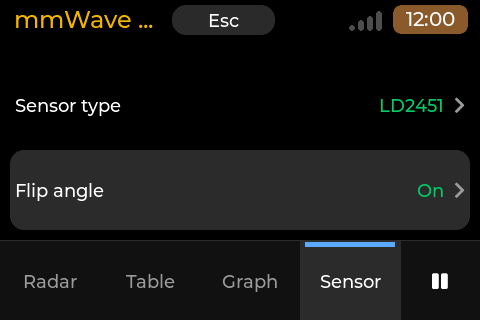
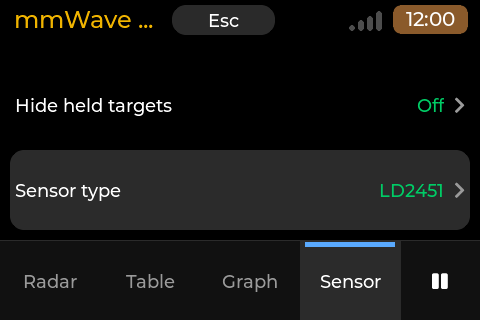
mmwave-radar: drop Flip angle (Orientation covers it), confirm LD2451 angle sign
Remove the Flip angle setting (settings field, serialisation, Sensor-page
row, the mirror path in the link, its tests); an old flip_angle key in
settings.conf is ignored and never written. A walk test on 2026-11-06
(sensor horizontal, cable on the left as seen when facing it) confirmed
the angle sign: positive = right as seen from behind the sensor;
Orientation > Mirror gives the facing view. README, scene and the two
Sensor-page screenshots updated. No diag change: the target-frame lines
are written for the LD2451 (3 in mmwave-diag-3.log).

Claude-Session: https://claude.ai/code/session_01DZirtLRRFpxSjax5Qp5ZSW

diff --git a/apps/mmwave-radar/tests/test_ld2451.cpp b/apps/mmwave-radar/tests/test_ld2451.cpp
@@ -3,7 +3,7 @@
  *
  * mmWave Radar tests: the HLK-LD2451 driver. The three real recordings (tests/data/ld2451-*.bin, README there) through
  * the decoder, the link and the tracker with their own timing; the decoder's edge cases (resync, split reads, truncated
- * and inconsistent frames, count above the slot cap); the polar maths and the Flip angle setting; the per-driver
+ * and inconsistent frames, count above the slot cap); the polar maths and the angle sign; a removed flip_angle settings key; the per-driver
  * timeouts (quiet_ms, drop_ms); the discrimination from the LD2410 both ways; the demo scenarios; listen-only.
  */
 #include "check.hpp"
@@ -900,86 +900,62 @@ void test_tracker_gap()
     }
 }
 
-/* ------------------------------------------------------------------------------------------ Flip angle */
+/* ------------------------------------------------------------------------------------------ angle sign */
 
-void test_flip_angle()
+/* The angle sign was confirmed by one walk test on 2026-11-06 (sensor horizontal, cable on the left as seen when facing it):
+ * positive = to the right as seen from behind the sensor; Orientation > Mirror gives the facing view. The polar maths is
+ * not mirrored anywhere (the Flip angle setting is gone). */
+void test_angle_sign()
 {
-    const Bytes tb = frame_bytes({{20, 8, 1, 4, 100}});
+    const Bytes tb = frame_bytes({{20, 8, 1, 4, 100}, {-15, 6, 0, 4, 100}});
     Frame f;
     CHECK(ld2451_decode_frame(tb.data(), tb.size(), f));
-    const int x0 = f.target[0].x_mm;
-    CHECK(x0 > 0);
-    Frame m = f;
-    mirror_frame_x(m);
-    CHECK_EQ(m.target[0].x_mm, -x0);
-    CHECK_EQ(m.target[0].angle_deg, -20.0);
-    CHECK_EQ(m.target[0].y_mm, f.target[0].y_mm);
-    CHECK_EQ(m.target[0].distance_mm, f.target[0].distance_mm);
-    CHECK_EQ(m.target[0].speed_cm_s, f.target[0].speed_cm_s);
-    CHECK(!m.target[1].present && m.target[1].x_mm == 0);
+    CHECK(f.target[0].x_mm > 0);
+    CHECK(f.target[1].x_mm < 0);
+    const int x0 = f.target[0].x_mm, x1 = f.target[1].x_mm;
+    CHECK_EQ(f.target[0].angle_deg, 20.0);
+    CHECK_EQ(f.target[1].angle_deg, -15.0);
 
-    for (int flip = 0; flip < 2; ++flip) {
-        FakeSys sys;
-        FakePort &p = sys.add("ttyUSB0");
-        p.stream[115200] = as_string(repeat(tb, 1));
-        p.rate_bps = 17 / 0.14;
-        Link link(sys);
-        link.set_flip_angle(flip != 0);
-        link.start(0);
-        step(sys, link, 8000);
-        CHECK(link.state() == LinkState::Found);
-        CHECK(link.driver() == &kDriverLd2451);
-        CHECK(link.tracker().slot(0).active);
-        CHECK_EQ(link.tracker().slot(0).last.x_mm, flip ? -x0 : x0);
-        CHECK_EQ(link.tracker().slot(0).last.angle_deg, flip ? -20.0 : 20.0);
-        /* switching it while running takes effect on the next frames */
-        link.set_flip_angle(flip == 0);
-        step(sys, link, 600);
-        CHECK_EQ(link.tracker().slot(0).last.x_mm, flip ? x0 : -x0);
-        link.close();
-    }
-    /* the LD2450 is left alone (it has Orientation > Mirror) */
-    {
-        FakeSys sys;
-        sys.add("ttyUSB0").stream[9600] = test_read_file(test_data_dir() + "ld2452-9600-walk-15s.bin");
-        Link a(sys);
-        a.set_flip_angle(true);
-        a.start(0);
-        step(sys, a, 6000);
-        CHECK(a.driver() == &kDriverLd2450);
-        const std::vector<std::uint8_t> raw(a.last_frame().raw, a.last_frame().raw + 30);
-        /* a flipped x would not match the bytes of the frame: decode them again */
-        Frame again;
-        CHECK(decode_frame(raw.data(), again));
-        for (int i = 0; i < 3; ++i) CHECK_EQ(a.last_frame().target[i].x_mm, again.target[i].x_mm);
-        a.close();
-    }
+    FakeSys sys;
+    FakePort &p = sys.add("ttyUSB0");
+    p.stream[115200] = as_string(repeat(tb, 1));
+    p.rate_bps = 17 / 0.14;
+    Link link(sys);
+    link.start(0);
+    step(sys, link, 8000);
+    CHECK(link.state() == LinkState::Found);
+    CHECK(link.driver() == &kDriverLd2451);
+    CHECK(link.tracker().slot(0).active);
+    CHECK_EQ(link.tracker().slot(0).last.x_mm, x0);
+    CHECK_EQ(link.tracker().slot(0).last.angle_deg, 20.0);
+    CHECK_EQ(link.tracker().slot(1).last.x_mm, x1);
+    link.close();
 }
 
 void test_flip_setting()
 {
-    Settings d;
-    CHECK(!d.flip_angle);
     /* the default file is as before: no line for it */
-    CHECK_EQ(serialize_settings(d), "units=metres\norientation=normal\nrange=auto\ntrails=on\nhide_held=off\n");
+    CHECK_EQ(serialize_settings(Settings()), "units=metres\norientation=normal\nrange=auto\ntrails=on\nhide_held=off\n");
+    /* an old file with the removed flip_angle key still loads (the key is ignored) and it is never written back */
+    for (const char *v : {"on", "off", "yes", ""}) {
+        const Settings r = parse_settings(std::string("units=raw\nflip_angle=") + v + "\nsensor=ld2451\nrange=4\n");
+        CHECK(r.units == UnitMode::MmCms);
+        CHECK_EQ(r.sensor, "ld2451");
+        CHECK_EQ(r.range_m, 4);
+        CHECK(serialize_settings(r).find("flip") == std::string::npos);
+    }
+    {
+        const Settings r = parse_settings("flip_angle=on\r\nunits=raw\r\n");
+        CHECK(r.units == UnitMode::MmCms);
+        CHECK(serialize_settings(r).find("flip") == std::string::npos);
+    }
     Settings s;
-    s.flip_angle = true;
-    CHECK(serialize_settings(s).find("flip_angle=on\n") != std::string::npos);
-    CHECK(parse_settings(serialize_settings(s)).flip_angle);
     s.sensor = "ld2451";
     s.range_m = 4;
     const Settings r = parse_settings(serialize_settings(s));
-    CHECK(r.flip_angle);
     CHECK_EQ(r.sensor, "ld2451");
     CHECK_EQ(r.range_m, 4);
     CHECK_EQ(serialize_settings(r), serialize_settings(s));
-    s.flip_angle = false;
-    CHECK(serialize_settings(s).find("flip_angle") == std::string::npos);
-    CHECK(!parse_settings("").flip_angle);
-    CHECK(!parse_settings("flip_angle=off\n").flip_angle);
-    CHECK(!parse_settings("flip_angle=yes\n").flip_angle);
-    CHECK(!parse_settings("flip_angle=\n").flip_angle);
-    CHECK(parse_settings("flip_angle=on\r\nunits=raw\r\n").flip_angle);
     /* the Sensor type value */
     CHECK_EQ(parse_settings("sensor=ld2451\n").sensor, "ld2451");
     CHECK(valid_sensor_type("ld2451"));
@@ -1109,7 +1085,7 @@ void test_ld2451()
     test_empty_only_stream();
     test_per_driver_timeouts();
     test_tracker_gap();
-    test_flip_angle();
+    test_angle_sign();
     test_flip_setting();
     test_range();
     test_demo_scenarios();

diff --git a/apps/mmwave-radar/src/ui/radar_app.cpp b/apps/mmwave-radar/src/ui/radar_app.cpp
@@ -48,9 +48,9 @@ std::int64_t mono_ms()
 }
 
 const char *const kTabNames[4] = {"Radar", "Table", "Graph", "Sensor"};
-constexpr int kSettingCount = 7;
+constexpr int kSettingCount = 6;
 const char *const kSettingNames[kSettingCount] = {"Units", "Orientation", "Range", "Trails", "Hide held targets",
-                                                   "Sensor type", "Flip angle"};
+                                                   "Sensor type"};
 
 std::uint32_t state_rgb(mmw::LinkState s)
 {
@@ -163,7 +163,6 @@ RadarApp::RadarApp(lv_obj_t *screen) : screen_(screen)
     mmw::LinkConfig link_cfg;
     link_cfg.detect.sensor = settings_.sensor;
     link_ = std::make_unique<mmw::Link>(*sys_, link_cfg);
-    link_->set_flip_angle(settings_.flip_angle);
     now_ = mono_ms();
     link_->start(now_, remembered);
     log_line("%s %dx%d%s%s, listen only, remembered %s", kVersion, w_, h_,
@@ -828,8 +827,7 @@ void RadarApp::update_sensor(bool force)
                                                mmw::orientation_label(settings_.orientation),
                                                mmw::range_label(settings_.range_m), settings_.trails ? "On" : "Off",
                                                settings_.hide_held ? "On" : "Off",
-                                               mmw::sensor_type_label(settings_.sensor.c_str()),
-                                               settings_.flip_angle ? "On" : "Off"};
+                                               mmw::sensor_type_label(settings_.sensor.c_str())};
     for (int i = 0; i < kSettingCount; ++i) {
         set_text_if(settings_rows_[i].value, values[i]);
         lv_obj_set_style_bg_opa(settings_rows_[i].row, i == setting_sel_ ? LV_OPA_COVER : LV_OPA_TRANSP, 0);
@@ -894,10 +892,6 @@ void RadarApp::apply_setting(int index)
     case 5:
         settings_.sensor = mmw::next_sensor_type(settings_.sensor.c_str());
         link_->set_sensor_type(settings_.sensor, now_);
-        break;
-    case 6:
-        settings_.flip_angle = !settings_.flip_angle;
-        link_->set_flip_angle(settings_.flip_angle);
         break;
     default: return;
     }

diff --git a/apps/mmwave-radar/src/core/ld2451.hpp b/apps/mmwave-radar/src/core/ld2451.hpp
@@ -10,9 +10,9 @@
  * with len = 2 + 5 x count. A frame with NOTHING in view is F4 F3 F2 F1 00 00 F8 F7 F6 F5 (len 0: no count and no alarm
  * byte; about every 1.4 s); one with a target comes about every 0.14 s. A frame of len 2 (count 0) is accepted as
  * empty too. Per target, one byte each:
- *   angle      reported value - 0x80, degrees (1 degree steps). Which side is positive is NOT verified: the driver takes
- *              positive as to the right, seen from behind the sensor looking where it points (x = d sin a); the Flip
- *              angle setting mirrors it.
+ *   angle      reported value - 0x80, degrees (1 degree steps). Positive is to the right, seen from behind the sensor
+ *              looking where it points (x = d sin a); confirmed by one walk test on 2026-11-06 (Orientation > Mirror
+ *              gives the view facing the sensor).
  *   distance   metres, whole (1 m steps; 2 m is the nearest seen; readings of 6-10 m in a 4 m room are reflections, not
  *              filtered here)
  *   direction  1 = approaching, 0 = receding (the document says the opposite; the recordings show the distance falling

diff --git a/apps/mmwave-radar/src/core/settings.hpp b/apps/mmwave-radar/src/core/settings.hpp
@@ -31,12 +31,11 @@ struct Settings {
     bool trails = true;
     bool hide_held = false;   /* do not draw or list held (stale) targets; the status line counts them */
     std::string sensor = kSensorAuto;   /* Sensor type: "auto" or the id of a real driver (driver.hpp) */
-    bool flip_angle = false;  /* mirror left and right for a sensor whose angle sign is unverified (the LD2451) */
 };
 
 /* "units=metres\norientation=normal\nrange=auto\ntrails=on\nhide_held=off\n"; "sensor=<driver id>\n" is added only when
- * the Sensor type is not Auto and "flip_angle=on\n" only when Flip angle is on, so a file written with the defaults stays
- * as older versions wrote it. */
+ * the Sensor type is not Auto, so a file written with the defaults stays as older versions wrote it. A "flip_angle" key
+ * (a setting that no longer exists) in an old file is ignored silently and never written. */
 std::string serialize_settings(const Settings &s);
 /* Tolerant: unknown keys and bad values keep the defaults. */
 Settings parse_settings(const std::string &text);

diff --git a/apps/mmwave-radar/src/core/link.hpp b/apps/mmwave-radar/src/core/link.hpp
@@ -116,10 +116,6 @@ public:
      * value starts a scan at once (forgetting what was judged not-a-radar); a streaming radar is left alone. */
     void set_sensor_type(const std::string &id, Ms now);
     const std::string &sensor_type() const { return cfg_.detect.sensor; }
-    /* The Flip angle setting: mirrors x and the angle of the frames of a polar sensor (DriverCaps::polar, the LD2451)
-     * before the tracker sees them; other sensors are left alone. Takes effect on the next frame. */
-    void set_flip_angle(bool on) { flip_angle_ = on; }
-    bool flip_angle() const { return flip_angle_; }
     /* The time without a frame that counts as lost, for the found driver (before one: the LD2450 family's). */
     Ms lost_after_ms() const;
 
@@ -156,7 +152,6 @@ private:
     std::string tty_settings_;
     std::vector<std::string> first_target_frames_;
     bool diag_on_ = false;
-    bool flip_angle_ = false;
     DiagFrameCounts diag_;
 };
 

diff --git a/apps/mmwave-radar/src/core/settings.cpp b/apps/mmwave-radar/src/core/settings.cpp
@@ -23,7 +23,6 @@ std::string serialize_settings(const Settings &s)
     out += std::string("trails=") + (s.trails ? "on" : "off") + "\n";
     out += std::string("hide_held=") + (s.hide_held ? "on" : "off") + "\n";
     if (s.sensor != kSensorAuto) out += "sensor=" + s.sensor + "\n"; /* only when not Auto: old files stay as they were */
-    if (s.flip_angle) out += "flip_angle=on\n"; /* likewise only when on */
     return out;
 }
 
@@ -49,8 +48,6 @@ Settings parse_settings(const std::string &text)
             s.trails = value != "off";
         } else if (key == "hide_held") {
             s.hide_held = value == "on";
-        } else if (key == "flip_angle") {
-            s.flip_angle = value == "on";
         } else if (key == "sensor") {
             s.sensor = valid_sensor_type(value.c_str()) ? value : std::string(kSensorAuto); /* unknown: Auto */
         }

diff --git a/apps/mmwave-radar/src/core/frame.hpp b/apps/mmwave-radar/src/core/frame.hpp
@@ -44,17 +44,6 @@ struct Frame {
     }
 };
 
-/* Mirrors a frame left to right (x and the angle change sign): the Flip angle setting for a sensor whose angle sign is
- * not verified (DriverCaps::polar). Distance, speed and the raw bytes are left alone. */
-inline void mirror_frame_x(Frame &f)
-{
-    for (Target &t : f.target)
-        if (t.present) {
-            t.x_mm = -t.x_mm;
-            t.angle_deg = -t.angle_deg;
-        }
-}
-
 struct DecoderStats {
     std::uint64_t bytes = 0;
     std::uint32_t frames_ok = 0;        /* good data frames yielded */

diff --git a/apps/mmwave-radar/src/core/driver.hpp b/apps/mmwave-radar/src/core/driver.hpp
@@ -30,7 +30,7 @@ enum class ViewKind { Tracking, Presence };
 struct DriverCaps {
     bool tracking_targets;   /* frames carry up to three targets with positions */
     bool presence_gates;     /* frames carry presence and energy per range gate */
-    bool polar = false;      /* the wire carries distance and angle (x and y are derived); the Flip angle setting applies */
+    bool polar = false;      /* the wire carries distance and angle (x and y are derived) */
 };
 
 struct SensorDriver {

diff --git a/apps/mmwave-radar/src/ui/radar_app.hpp b/apps/mmwave-radar/src/ui/radar_app.hpp
@@ -184,7 +184,7 @@ private:
     InfoRow si_state_, si_port_, si_id_, si_baud_, si_fps_, si_good_, si_bad_, si_age_, si_model_;
     lv_obj_t *si_reports_ = nullptr;
     std::string si_reports_shown_;
-    SettingRow settings_rows_[7]; /* kSettingCount in radar_app.cpp */
+    SettingRow settings_rows_[6]; /* kSettingCount in radar_app.cpp */
     int setting_sel_ = -1;
 
     std::unique_ptr<mmw::Sys> sys_;

diff --git a/apps/mmwave-radar/src/core/link.cpp b/apps/mmwave-radar/src/core/link.cpp
@@ -171,7 +171,6 @@ void Link::read_frames(Ms now)
         if (n < static_cast<long>(sizeof(buf))) break;
     }
     for (Frame &f : frames) {
-        if (flip_angle_ && driver_ && driver_->caps.polar) mirror_frame_x(f);
         if (f.present_count() > 0 && first_target_frames_.size() < 3) {
             static const char *hex = "0123456789abcdef";
             std::string h;

diff --git a/apps/mmwave-radar/README.md b/apps/mmwave-radar/README.md
@@ -10,7 +10,7 @@ nothing to the sensor, not even to find it (study: launcher report 056).
 `screenshots/` (rendered by the PC harness with the scripted ports, `build.sh host`): `01-radar-640x480`,
 `02-radar-480x320`, `03-radar-320x480` (the tall page at the board's 6.1 px/mm), `04-table-480x320`,
 `05-graph-640x480`, `06-sensor-320x480`, `07-notfound-480x320`, `08-table-320x480`, `09-radar-480x800` (the tall page
-with the strip chart). `18`-`21`: the Radar page with an LD2451 (an approaching and a receding target, Auto range 20 m) at 640x480, 480x320, 320x480 and 480x800; `22`, `23`: its Table; `24`, `25`: the Sensor page with the LD2451 chosen and Flip angle on.
+with the strip chart). `18`-`21`: the Radar page with an LD2451 (an approaching and a receding target, Auto range 20 m) at 640x480, 480x320, 320x480 and 480x800; `22`, `23`: its Table; `24`, `25`: the Sensor page with the LD2451 chosen (six setting rows).
 
 ## What it does
 
@@ -39,8 +39,7 @@ Four pages, switched by the tab strip at the bottom, the Left / Right keys or th
   line *Detected by listening only: the app sends nothing to the sensor*, and the settings: **Units** (Metres: m and
   km/h / Millimetres: mm and cm/s), **Orientation** (Normal / Mirror (left and right swapped) / Rotate 180), **Range**
   (Auto / 2 / 4 / 6 m), **Trails** (On / Off), **Hide held targets** (On / Off, default Off; see Known behaviour), **Sensor type** (Auto, the default, or
-  LD2452 / LD2450, or LD2451: a fixed type listens for that driver only), **Flip angle** (On / Off, default Off: mirrors
-  left and right for the LD2451, whose angle sign is not verified; no effect on the LD2450 family, which has Orientation).
+  LD2452 / LD2450, or LD2451: a fixed type listens for that driver only).
   A tap or Enter on a setting row moves it to its next value.
 - **No radar.** While the radar is not streaming, the Radar page says why ("No radar found", "The port is used by
   another app", "Signal lost, searching", "The port cannot be opened"), what the scan is doing, what was tried on each
@@ -98,9 +97,10 @@ Facts from our own recordings (`tests/data/ld2451-*.bin`, README there), which d
 direction byte is 1 for approaching and 0 for receding (the document says the opposite), and the empty frame has no
 count and alarm byte. The alarm byte is read for the plausibility check and not used. The sensor showed at most one
 target at a time; the decoder accepts up to 16 per frame and shows the first three. The polar values become x and y
-(`x = d sin a`, `y = d cos a`; the Table also shows the distance and the angle as sent). **The sign of the angle is not
-verified**: the app takes a positive angle as to the right of the sensor, seen from behind it; if a step to your right
-moves the dot left, switch on **Flip angle**. Readings of 6-10 m in a 4 m room were seen: they look like reflections and
+(`x = d sin a`, `y = d cos a`; the Table also shows the distance and the angle as sent). **The sign of the angle was confirmed by one
+walk test on 2026-11-06**, with the sensor horizontal and its cable on the left as seen when facing it: a positive angle
+is to the right as seen from behind the sensor (looking where it points), and the plot in the Normal orientation shows
+that view; **Orientation > Mirror** gives the view as seen when facing the sensor. Readings of 6-10 m in a 4 m room were seen: they look like reflections and
 are shown as sent. The resolution is 1 m and 1 degree, so the plot moves in steps. The sensor's detection settings (a
 direction filter, a minimum speed) cannot be read or changed with a listen-only app. Not supported:
 the LD2410 presence radar (named in the scan; its data frames are told from the LD2451's by their `02 AA ... 55 00` layout), any configuration (0.1 sends no command), two-person slot identity (not
@@ -176,7 +176,7 @@ struct and the registry. To add a model:
    `listen_ms` / `silent_ms` (longer detector windows for a slow sensor) and `max_range_m` (how far the Auto range may
    grow); see `ld2450.cpp` (the numbers of a fast sensor) and `ld2451.cpp` (a slow one, the numbers justified from its
    recordings). A polar sensor (distance and angle on the wire) fills `distance_mm` and `angle_deg` from the wire,
-   derives x and y, and sets `caps.polar` (the Flip angle setting applies to it). Its sniff must not match another
+   derives x and y, and sets `caps.polar`. Its sniff must not match another
    model's frames: the LD2410 shares the `F4 F3 F2 F1` framing with the LD2451, so each checks the layout inside it.
 2. Add it to the array in `driver.cpp` (real drivers before stubs). The Sensor type row, the settings file value
    (`sensor=<id>`), the scan and the diagnostic line's `driver=<id>` pick it up from there.
@@ -190,7 +190,7 @@ replays the recorded walk from `tests/data`, or `$MMWAVE_DEMO_FILE`; the `ld2451
 
 ## Files the app keeps
 
-`~/.config/mmwave-radar/` (or `$XDG_CONFIG_HOME/mmwave-radar/`): `settings.conf` (units, orientation, range, trails, hide_held, `sensor=<driver id>` only when the Sensor type is not Auto, and `flip_angle=on` only when Flip angle is on) and
+`~/.config/mmwave-radar/` (or `$XDG_CONFIG_HOME/mmwave-radar/`): `settings.conf` (units, orientation, range, trails, hide_held, `sensor=<driver id>` only when the Sensor type is not Auto; a `flip_angle` line of an older version is ignored and not written back) and
 `remembered.conf` (the port id and speed of the last radar), both written atomically. Delete the folder to reset. Only
 when you create the marker file `diag` there: `mmwave.log` (the diagnostic log, at most about 400 KB).
 
@@ -222,11 +222,11 @@ Settings > Apps, once published (0.1.0 is a draft: `"draft": true`). By hand: `s
 - Listen only: no sensor setting can be read or changed (the LD2452 does not answer the LD2450 queries anyway; the
   LD2451's direction filter and minimum speed stay as they are, and a sensor set to approaching only never shows a
   receding target).
-- LD2451: the angle sign is unverified (Flip angle, above); the field of view drawn is the LD2450's +-60 degrees, the
+- LD2451: the angle sign was confirmed by one walk test (see above); the field of view drawn is the LD2450's +-60 degrees, the
   LD2451's is not in the protocol paper (angles up to 71 degrees were recorded); a fixed Range is 2, 4 or 6 m (Auto goes
   to 100 m); the speed is a whole km/h from the sensor, so the Table's cm/s column moves in steps of 28.
 - Left and right: the sign of x is taken as the sensor sends it; if a step to your right moves the dot left, choose
-  Orientation > Mirror.
+  Orientation > Mirror (it applies to every sensor).
 - A frozen (hidden) app keeps the port; another app cannot open it meanwhile.
 - The plot's refresh rate on a Pi Zero 2 W is not measured yet (board test).
 
@@ -259,5 +259,4 @@ Build from a WSL native-filesystem LF copy with fresh build dirs (`CDK_BUILD`, `
   identical; the latest target frame every 10 s); held (stale) targets of the LD2452 marked after 3 s, with the
   setting Hide held targets; the sensor driver seam (the LD2450 family is one driver, the LD2410 a stub) and the
   Sensor type setting (Auto, default, or a fixed driver); the diagnostic line gains `driver=<id>`; the HLK-LD2451
-  driver (115200 baud, polar targets, per-driver quiet time and release time, Auto range up to 100 m) and the
-  Flip angle setting; the Sensor type value of the LD2450 family reads `LD2452 / LD2450`.
+  driver (115200 baud, polar targets, per-driver quiet time and release time, Auto range up to 100 m); the Sensor type value of the LD2450 family reads `LD2452 / LD2450`.
